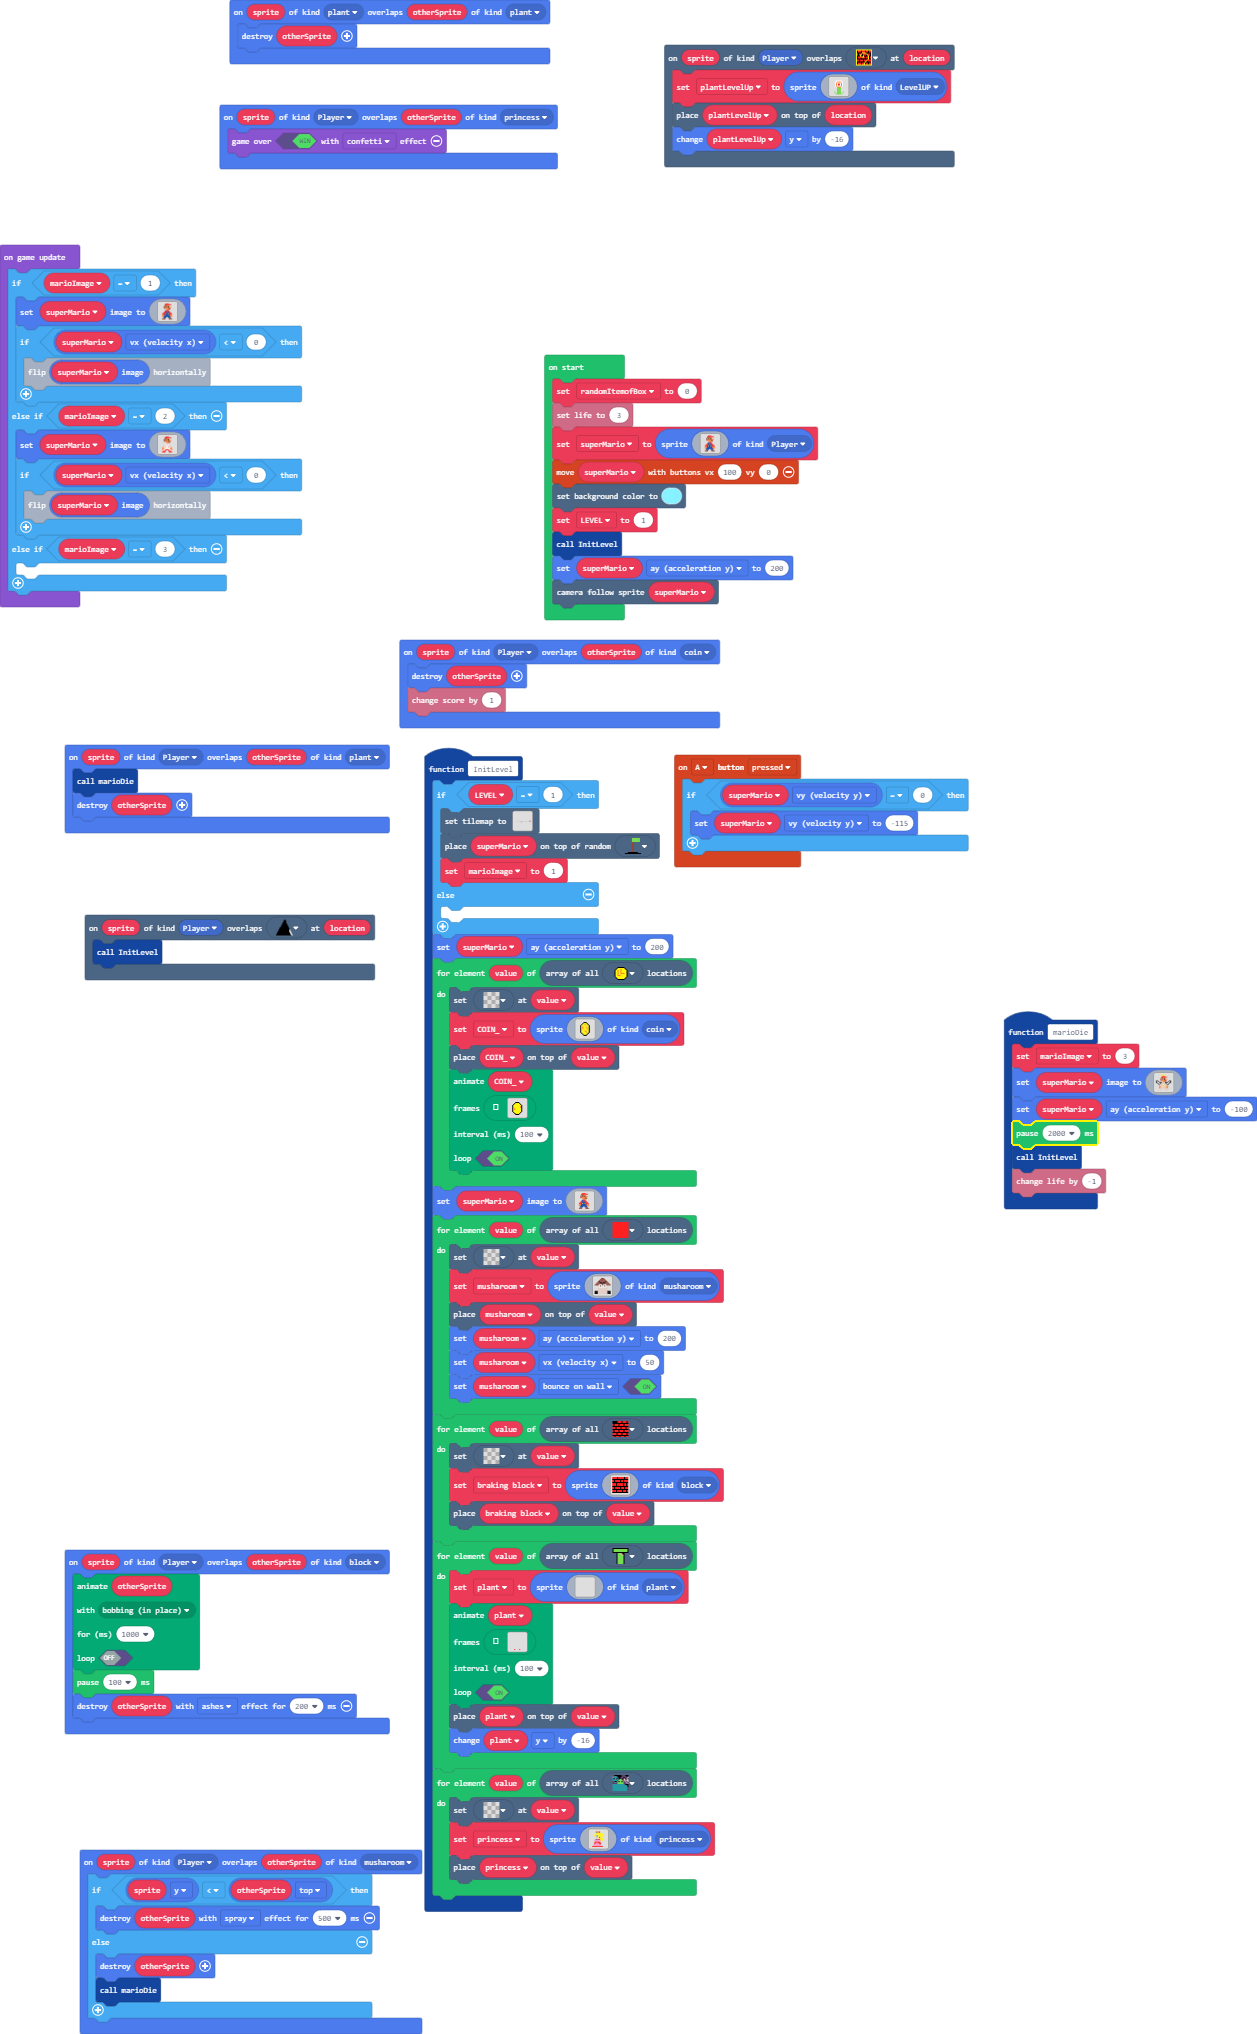
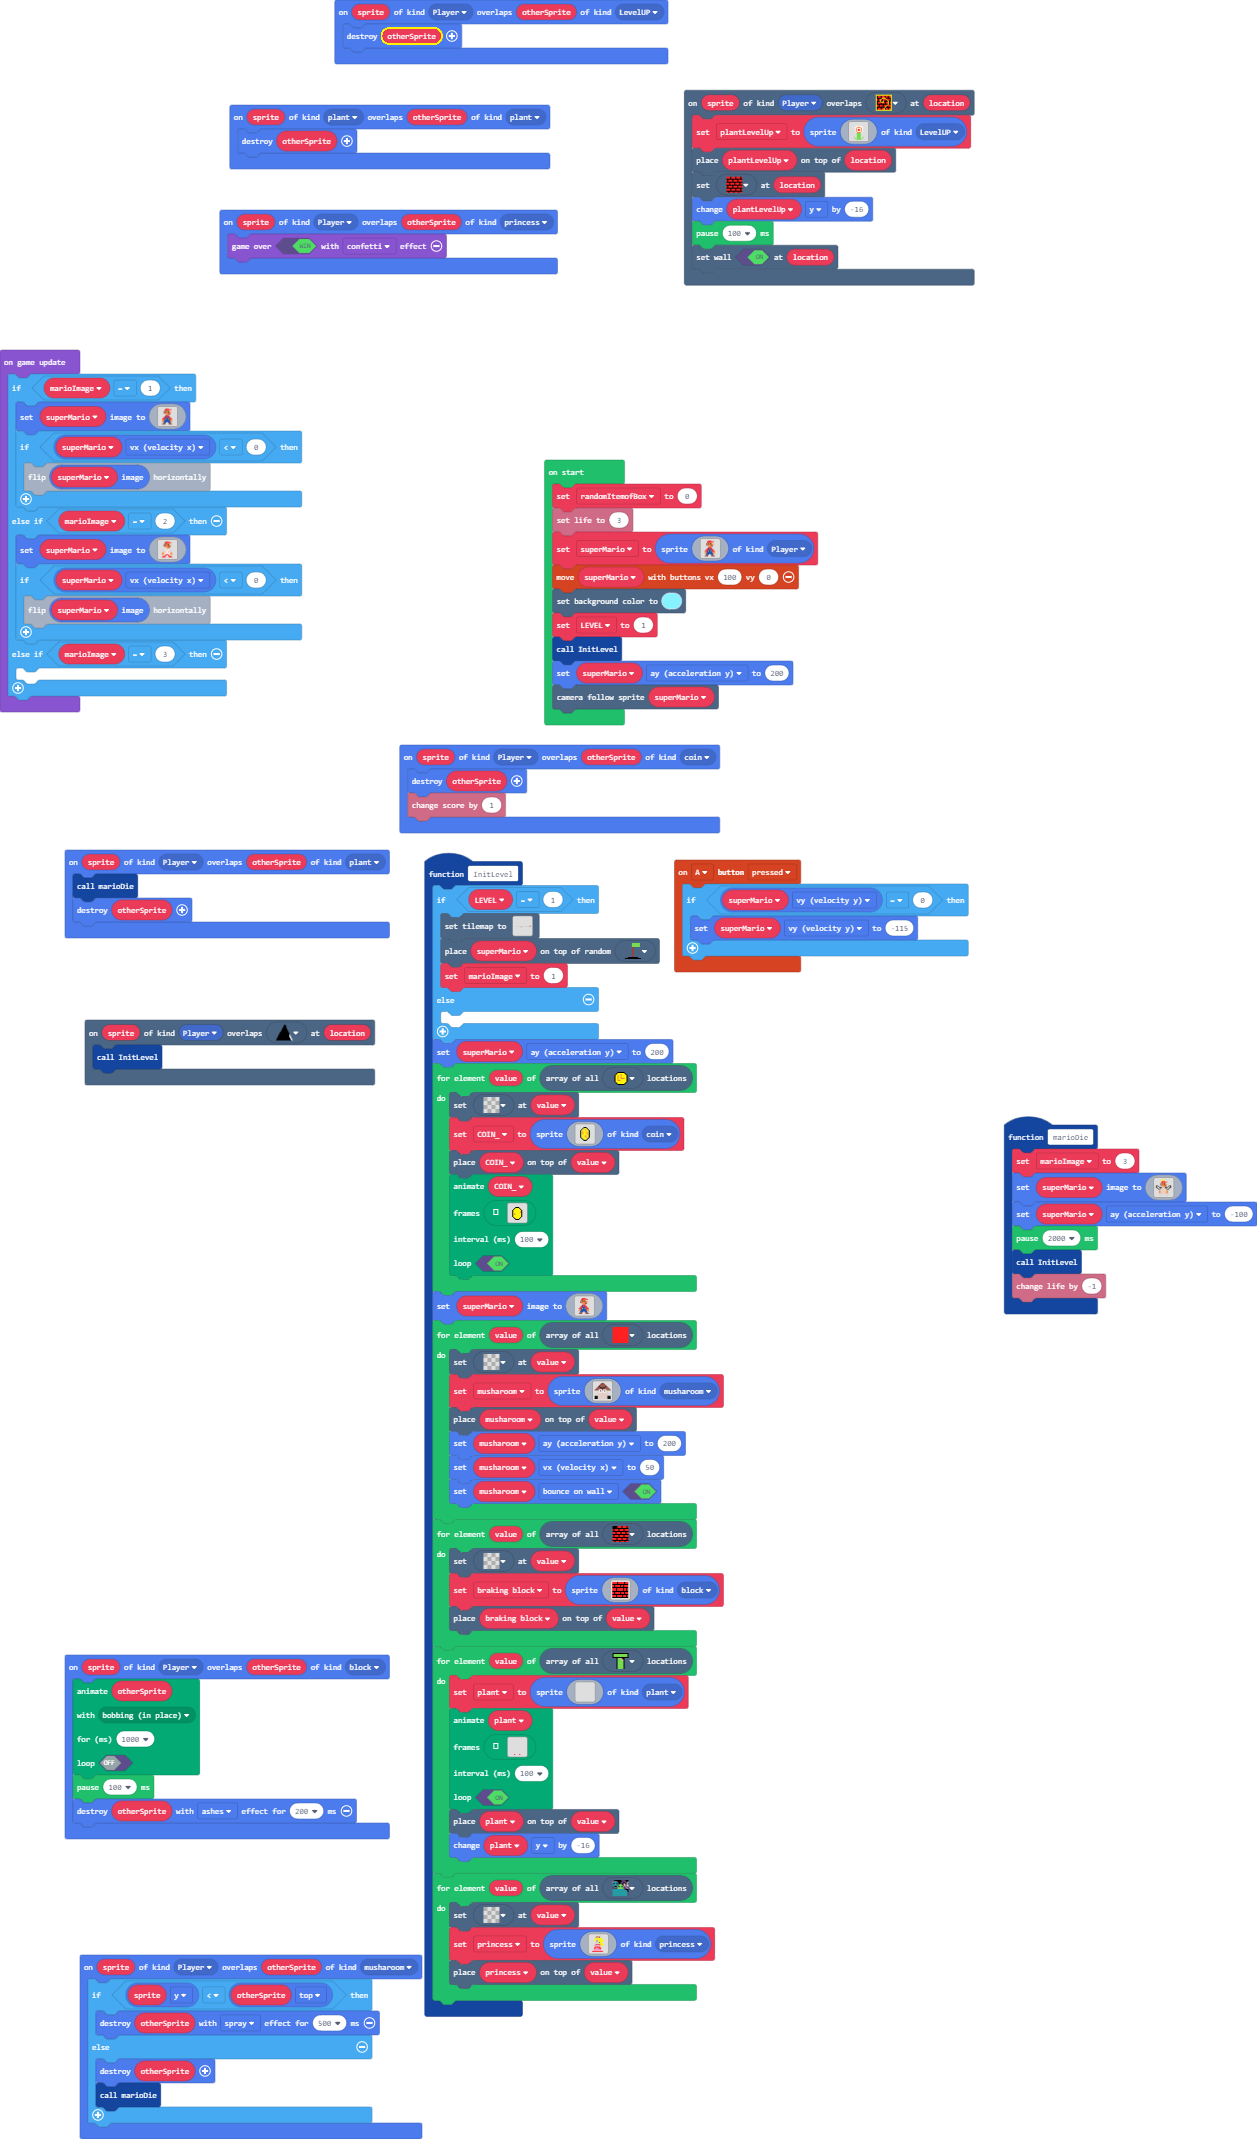
made plant level up not finished

Changed region(s): [[0.0, 0.0, 0.7757, 0.9912], [0.031, 0.7434, 0.3103, 0.8673], [0.7757, 0.4956, 1.0, 0.6195]]

diff --git a/main.ts b/main.ts
@@ -223,6 +223,9 @@ controller.A.onEvent(ControllerButtonEvent.Pressed, function () {
         superMario.vy = -115
     }
 })
+sprites.onOverlap(SpriteKind.Player, SpriteKind.LevelUP, function (sprite, otherSprite) {
+    otherSprite.destroy()
+})
 sprites.onOverlap(SpriteKind.Player, SpriteKind.block, function (sprite, otherSprite) {
     animation.runMovementAnimation(
     otherSprite,
@@ -253,7 +256,10 @@ scene.onOverlapTile(SpriteKind.Player, myTiles.tile8, function (sprite, location
 . . . . . 7 7 7 7 7 7 . . . . . 
 `, SpriteKind.LevelUP)
     tiles.placeOnTile(plantLevelUp, location)
+    tiles.setTileAt(location, myTiles.tile1)
     plantLevelUp.y += -16
+    pause(100)
+    tiles.setWallAt(location, true)
 })
 sprites.onOverlap(SpriteKind.Player, SpriteKind.musharoom, function (sprite, otherSprite) {
     if (sprite.y < otherSprite.top) {
@@ -285,7 +291,7 @@ function InitLevel () {
 . . . . . . . . . . . . . . . . . . . . . . . . 2 . . . . . . . . . . . . . . . . . . . . . . . . . . . . . . . . . . . . . . . . . . . . . . . . . . . . . . . . . . . . . . . . . . . . . 2 2 2 2 2 2 
 . . . . . . . . . . . . . . . . . . . . . . . . 2 . . . . . . . . . . . . . . . . . . . . . . . . . . . . . . . . . . . . . . . . . . . . . . . . . . . . . . . . . . . . . . . . . . . . 2 2 2 2 2 2 2 
 . . . . . . . . . . . . . . . . . . . . . . . . 2 . . . . . . . . . . . . . . 2 . . 2 . . . . . . . . . . . . . . . . . . . . . . . . . . . . . . . . . . . . . . . . . . . . . . . . . 2 2 2 2 2 2 2 2 
-. . . . . . . . . . . . . . . . . . . . . . . . . . . . . . . . . . . . . . 2 2 . . 2 2 . . . . . . . . . . . . . . 2 2 2 2 2 2 . . . . . . . . . . . . . . . . . . . . . . . . . . . 2 2 2 2 2 2 2 2 2 
+. . . . . . . . . . . . . . . . . . . . . . . . . . . . . . . . . . . . . . 2 2 . . 2 2 . . . . . . . . . . . . . . 2 2 2 . 2 2 . . . . . . . . . . . . . . . . . . . . . . . . . . . 2 2 2 2 2 2 2 2 2 
 . . . . . . 2 . . . . . . . . . . . . . . . . . . . . . . . . . . . . . . 2 2 2 . . 2 2 2 . . . . . . . . . . . . . . . . . . . . . . . . . . . . . 2 . . . . 2 . . . . . . . . . . 2 2 2 2 2 2 2 2 2 2 
 . . . . . . 2 2 2 . . . . 2 . . . . . 2 . . . . . . . . . . . . 2 . . . 2 2 2 2 . . 2 2 2 2 . . . 2 . . 2 . . 2 . . . . . . . . . . 2 . . 2 . . . . 2 . . . . 2 . . . . . . . 2 . 2 2 2 2 2 2 2 2 2 2 2 
 2 2 2 2 2 2 2 2 2 2 2 2 2 2 2 2 2 2 2 2 2 2 2 2 2 2 2 2 2 2 2 2 2 2 2 2 2 2 2 2 . . 2 2 2 2 2 2 2 2 2 2 2 2 2 2 2 2 2 2 2 2 2 2 2 2 2 2 2 2 2 2 2 2 2 2 2 2 2 2 2 2 2 2 2 2 2 2 2 2 2 2 2 2 2 2 2 2 2 2 
